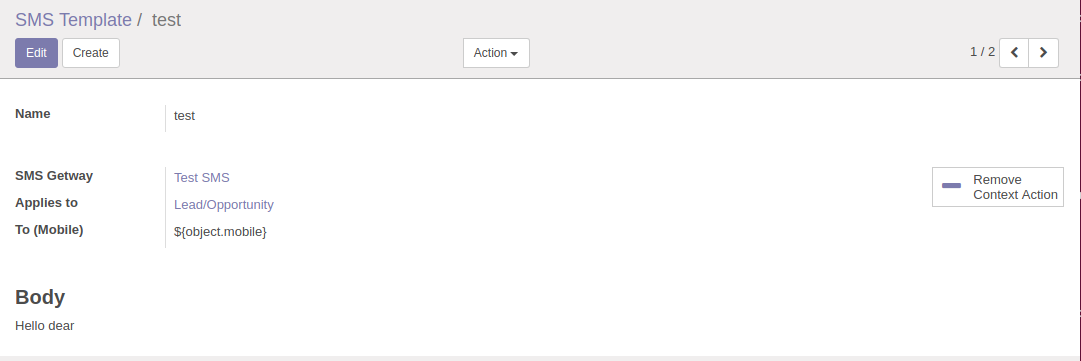
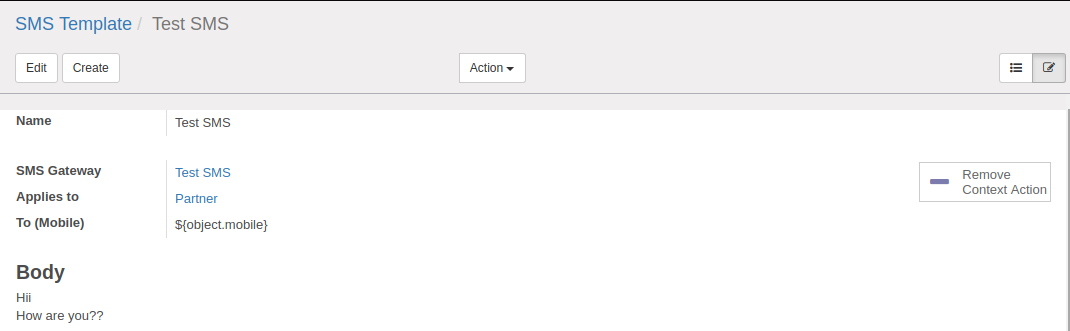
9th commit

diff --git a/send_sms/static/description/index.html b/send_sms/static/description/index.html
@@ -2,7 +2,7 @@
   <div class="oe_row oe_spaced">
     <h2 class="oe_slogan">Send SMS</h2>
     <ul>
-      <li>This module use for send sms from odoo. You need a sms gatway to setup for trigger sms. You can use multiple getway for multiple sms template. Also you can send sms manually using wizard.</li>
+      <li>This module use for send sms from odoo. You need a sms gateway to setup for trigger sms. You can use multiple gateway for multiple sms template. Also you can send sms manually using wizard.</li>
       <li>You can find send sms functionality under Settings. You will get that menu in debug mode.</li>
       <li>After debug mode, you can get send sms in <b>Settings > Technical > Send SMS.</b></li>
     </ul>
@@ -10,31 +10,31 @@
 </section>
 <section class="oe_container oe_dark">
      <div class="oe_row oe_spaced">
-        <h3 class="oe_slogan">GetWay Setup</h3>
+        <h3 class="oe_slogan">GateWay Setup</h3>
         <div class="oe_row oe_spaced">
           <div class="oe_span12">
-            <p>You can setup your getway like below.</p>
-            <p>This module support only <b>GET</b> method for integrate sms getway.</p>
-            <p>For mobile, use <b>{mobile}</b> as a variable and add this variable in url. Some getway support country code (like 91 for india) or some getway not support country code. If your getway support country code use country code before {mobile} (like <b>91{mobile}</b>)</p>
+            <p>You can setup your gateway like below.</p>
+            <p>This module support only <b>GET</b> method for integrate sms gateway.</p>
+            <p>For mobile, use <b>{mobile}</b> as a variable and add this variable in url. Some gateway support country code (like 91 for india) or some gateway not support country code. If your gateway support country code use country code before {mobile} (like <b>91{mobile}</b>)</p>
             <p>For message, use <b>{message}</b> as a variable in url. </p>
           </div>
         </div>
         <div class="oe_row">
           <div class="oe_span12">
-              <img class="oe_demo oe_picture oe_screenshot" src="get_way_set_up.png">
+              <img class="oe_demo oe_picture oe_screenshot" src="gateway_set_up.png">
           </div>
         </div>
      </div>
 </section>
 
 <section class="oe_container">
-        <h3 class="oe_slogan">Test Getway</h3>
+        <h3 class="oe_slogan">Test Gateway</h3>
         <div class="oe_row oe_spaced">
           <div class="oe_span6">
-              <p class="oe_mt32">Put mobile no. and message in respective textbox, then click on <b>Send</b> button. If getway parameters are correct it shows a responce of that message in popup.</p>
+              <p class="oe_mt32">Put mobile no. and message in respective textbox, then click on <b>Send</b> button. If gateway parameters are correct it shows a responce of that message in popup.</p>
           </div>
           <div class="oe_span6">
-              <img class="oe_picture oe_screenshot" src="testget_way.png">
+              <img class="oe_picture oe_screenshot" src="test_gateway.png">
           </div>
         </div>
 </section>
@@ -50,7 +50,7 @@
         <div class="oe_span6">
           <p><b>Setup SMS Template</b></p>
           <ul>
-            <li>Choose getway.</li>
+            <li>Choose gateway.</li>
             <li>Choose model.</li>
             <li>put mobile no. as a variable like <b>${object.mobile}</b>.</li>
             <li>Write message in body field.</li>
@@ -63,7 +63,7 @@
     <div class="oe_row oe_spaced">
         <h3 class="oe_slogan">SMS Track</h3>
         <div class="oe_span6">
-            <p class="oe_mt32">Track History of all message responce. Also that history contain mobile no., message, getway.</div>
+            <p class="oe_mt32">Track History of all message responce. Also that history contain mobile no., message, gateway.</div>
         <div class="oe_span6">
             <img class="oe_picture oe_screenshot" src="sms_track.png">
         </div>

diff --git a/send_sms/models/send_sms.py b/send_sms/models/send_sms.py
@@ -46,7 +46,7 @@ class SendSMS(models.Model):
     _description = "Send SMS"
 
     name = fields.Char(required=True, string='Name')
-    getway_id = fields.Many2one('getway_setup',required=True,string='SMS Getway')
+    gateway_id = fields.Many2one('gateway_setup',required=True,string='SMS Gateway')
     model_id = fields.Many2one('ir.model', string='Applies to', help="The kind of document with with this template can be used")
     sms_to = fields.Char(string='To (Mobile)', help="To mobile number (placeholders may be used here)")
     sms_html = fields.Text('Body')
@@ -58,9 +58,9 @@ class SendSMS(models.Model):
     def send_sms(self, template_id, record_id):
         sms_rendered_content = self.env['send_sms'].render_template(template_id.sms_html, template_id.model_id.model, record_id)
         rendered_sms_to = self.env['send_sms'].render_template(template_id.sms_to, template_id.model_id.model, record_id)
-        self.send_sms_link(sms_rendered_content,rendered_sms_to,record_id,template_id.model_id.model,template_id.getway_id)
+        self.send_sms_link(sms_rendered_content,rendered_sms_to,record_id,template_id.model_id.model,template_id.gateway_id)
 
-    def send_sms_link(self,sms_rendered_content,rendered_sms_to,record_id,model,getway_url_id):
+    def send_sms_link(self,sms_rendered_content,rendered_sms_to,record_id,model,gateway_url_id):
         sms_rendered_content = sms_rendered_content.encode('ascii', 'ignore')
         sms_rendered_content_msg = urllib.quote_plus(sms_rendered_content)
         if rendered_sms_to:
@@ -72,11 +72,11 @@ class SendSMS(models.Model):
                 rendered_sms_to = rendered_sms_to.replace('-', '')
 
         if rendered_sms_to:
-            send_url = getway_url_id.getway_url
+            send_url = gateway_url_id.gateway_url
             send_link = send_url.replace('{mobile}',rendered_sms_to).replace('{message}',sms_rendered_content_msg)
             response = requests.request("GET", url = send_link).text
-            self.env['sms_track'].sms_track_create(record_id, sms_rendered_content, rendered_sms_to, response, model, getway_url_id.id )
-            if model != 'getway_setup':
+            self.env['sms_track'].sms_track_create(record_id, sms_rendered_content, rendered_sms_to, response, model, gateway_url_id.id )
+            if model != 'gateway_setup':
                 self.env['mail.message'].create({
                 'author_id': http.request.env.user.partner_id.id,
                 'date': datetime.datetime.today().strftime('%Y-%m-%d %H:%M:%S'),

diff --git a/send_sms/models/gateway_setup.py b/send_sms/models/gateway_setup.py
@@ -7,16 +7,16 @@ import logging
 
 _logger = logging.getLogger(__name__)
 
-class GetWaysetup(models.Model):
-    _name = "getway_setup"
-    _description = "GetWay Setup"
+class GateWaysetup(models.Model):
+    _name = "gateway_setup"
+    _description = "GateWay Setup"
 
     name = fields.Char(required=True, string='Name')
-    getway_url = fields.Char(required=True, string='GetWay Url')
+    gateway_url = fields.Char(required=True, string='GateWay Url')
     message = fields.Text('Message')
     mobile = fields.Char('Mobile')
 
-    def send_sms_link(self,sms_rendered_content,rendered_sms_to,record_id,model,getway_url_id):
+    def send_sms_link(self,sms_rendered_content,rendered_sms_to,record_id,model,gateway_url_id):
         sms_rendered_content = sms_rendered_content.encode('ascii', 'ignore')
         sms_rendered_content_msg = urllib.quote_plus(sms_rendered_content)
         if rendered_sms_to:
@@ -28,7 +28,7 @@ class GetWaysetup(models.Model):
                 rendered_sms_to = rendered_sms_to.replace('-', '')
 
         if rendered_sms_to:
-            send_url = getway_url_id.getway_url
+            send_url = gateway_url_id.gateway_url
             send_link = send_url.replace('{mobile}',rendered_sms_to).replace('{message}',sms_rendered_content_msg)
             try:
                 response = requests.request("GET", url = send_link).text
@@ -39,7 +39,7 @@ class GetWaysetup(models.Model):
 
     @api.one
     def sms_test_action(self):
-        active_model = 'getway_setup'
+        active_model = 'gateway_setup'
         message = self.env['send_sms'].render_template(self.message, active_model, self.id)
         mobile_no = self.env['send_sms'].render_template(self.mobile, active_model, self.id)
         response = self.send_sms_link(message, mobile_no,self.id,active_model,self)

diff --git a/send_sms/wizard/sms_compose.py b/send_sms/wizard/sms_compose.py
@@ -18,12 +18,12 @@ class SMSComposer(models.TransientModel):
     def _get_body_text(self):
         self.body_text= self.template_id.sms_html
         self.sms_to_lead = self.template_id.sms_to
-        self.getwayurl_id = self.template_id.getway_id
+        self.gatewayurl_id = self.template_id.gateway_id
 
     template_id = fields.Many2one('send_sms', 'SMS Template')
     body_text = fields.Text('Body')
     sms_to_lead = fields.Char(string='To (Mobile)')
-    getwayurl_id = fields.Many2one('getway_setup','SMS Getway')
+    gatewayurl_id = fields.Many2one('gateway_setup','SMS Gateway')
 
     @api.multi
     def send_sms_action(self):
@@ -32,5 +32,5 @@ class SMSComposer(models.TransientModel):
             my_model = self._context['active_model']
             message = self.env['send_sms'].render_template(self.body_text, my_model, ids)
             mobile_no = self.env['send_sms'].render_template(self.sms_to_lead, my_model, ids)
-            self.env['send_sms'].send_sms_link(message, mobile_no,ids,my_model,self.getwayurl_id)
+            self.env['send_sms'].send_sms_link(message, mobile_no,ids,my_model,self.gatewayurl_id)
         return True

diff --git a/send_sms/models/sms_track.py b/send_sms/models/sms_track.py
@@ -8,15 +8,15 @@ class sms_track(models.Model):
     mobile_no = fields.Char('Mobile No.', readonly=True)
     response_id = fields.Char('Response',readonly=True)
     message_id = fields.Text('Messages',readonly=True)
-    getway_id = fields.Many2one('getway_setup', string='GetWay',readonly=True)
+    gateway_id = fields.Many2one('gateway_setup', string='GateWay',readonly=True)
 
     @api.model
-    def sms_track_create(self, record_id, sms_rendered_content, rendered_sms_to, response, model, getway_id):
+    def sms_track_create(self, record_id, sms_rendered_content, rendered_sms_to, response, model, gateway_id):
         value = {
             'model_id': model,
             'mobile_no': rendered_sms_to,
             'message_id': sms_rendered_content,
             'response_id': response,
-            'getway_id': getway_id,
+            'gateway_id': gateway_id,
         }
         track_id = self.create(value)

diff --git a/send_sms/__manifest__.py b/send_sms/__manifest__.py
@@ -3,7 +3,7 @@
     'version': '0.1',
     'author': "Debasish Dash",
     'category': 'Tools',
-    'summary':'You can use multiple getway for multiple sms template to send SMS.',
+    'summary':'You can use multiple gateway for multiple sms template to send SMS.',
     'description':'Allows you to send SMS to the mobile no.',
     'website': "http://www.fdshive.com",
     'depends': ['base','web',],
@@ -11,7 +11,7 @@
         'view/send_sms_view.xml',
         'view/ir_actions_server_views.xml',
         'view/sms_track_view.xml',
-        'view/getway_setup_view.xml',
+        'view/gateway_setup_view.xml',
         'wizard/sms_compose_view.xml',
         'security/ir.model.access.csv',
     ],

diff --git a/send_sms/models/__init__.py b/send_sms/models/__init__.py
@@ -2,4 +2,4 @@
 import send_sms
 import sms_track
 import ir_actions
-import getway_setup
+import gateway_setup

diff --git a/README.md b/README.md
@@ -1,26 +1,26 @@
 # Send SMS
 
-This module use for send sms from odoo. You need a sms gatway to setup for trigger sms. You can use multiple getway for multiple sms template. Also you can send sms manually using wizard.
+This module use for send sms from odoo. You need a sms gateway to setup for trigger sms. You can use multiple gateway for multiple sms template. Also you can send sms manually using wizard.
 
 You can find send sms functionality under Settings. You will get that menu in debug mode.
 
 Settings > Technical > Send SMS.
 
 
-SMS Getway Setup
+SMS Gateway Setup
 =================
-1. This module support only GET method for integrate sms getway.
-2. For mobile, use {mobile} as a variable and add this variable in url. Some getway support country code (like 91 for india) or some getway not support country code. If your getway support country code use country code before {mobile} (like 91{mobile}) .
+1. This module support only GET method for integrate sms gateway.
+2. For mobile, use {mobile} as a variable and add this variable in url. Some gateway support country code (like 91 for india) or some gateway not support country code. If your gateway support country code use country code before {mobile} (like 91{mobile}) .
 3. For message, use {message} as a variable in url.
-4. If you want to test after getway setup, So go to SMS Test tab in form view of getway setup.
+4. If you want to test after gateway setup, So go to SMS Test tab in form view of gateway setup.
 
 Template Setup
 ==============
-You can choose Getway, model, put mobile no. as a variable like ${object.mobile}, Write message in body field.
+You can choose Gateway, model, put mobile no. as a variable like ${object.mobile}, Write message in body field.
 
 SMS Track
 =========
-Track History of all message responce. Also that history contain mobile no., message, getway.
+Track History of all message responce. Also that history contain mobile no., message, gateway.
 
 SMS Wizard
 ===========
